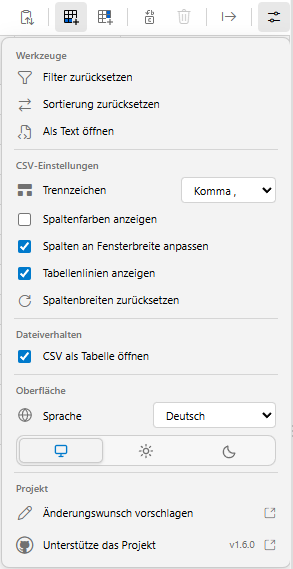
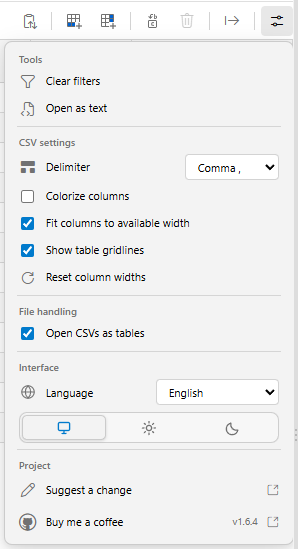
Release 1.6.5 with precise header sorting and supplied screenshots

diff --git a/media/editor.css b/media/editor.css
@@ -40,7 +40,7 @@ svg { display: block; width: 16px; height: 16px; fill: none; stroke: currentColo
 .tool-group { display: flex; align-items: center; gap: 2px; }
 .tool-button { position: relative; display: inline-grid; flex: none; place-items: center; width: 32px; height: 30px; padding: 0; border: 0; border-radius: 4px; outline: 0; background: transparent; color: var(--muted); }
 .tool-button:hover:not(:disabled), .tool-button[aria-expanded="true"] { background: var(--hover); color: var(--foreground); }
-.tool-button:focus-visible, .header-button:focus-visible, .sort-button:focus-visible, .menu-action:focus-visible, .dialog-button:focus-visible { outline: 2px solid var(--focus); outline-offset: -2px; }
+.tool-button:focus-visible, .header-button:focus-visible, .sort-direction:focus-visible, .menu-action:focus-visible, .dialog-button:focus-visible { outline: 2px solid var(--focus); outline-offset: -2px; }
 .tool-button > .codicon { font-size: 16px; }
 .table-add-icon { width: 16px; height: 16px; stroke-width: 1; stroke-linecap: square; stroke-linejoin: miter; }
 .replace-values-icon { width: 16px; height: 16px; fill: currentColor; stroke: none; stroke-width: 0; }
@@ -63,25 +63,30 @@ thead th:first-child { position: sticky; left: 0; z-index: 4; }
 .row-number-head input, .row-number-cell input { width: 12px; height: 12px; margin: 0; accent-color: var(--accent); }
 .row-number-head input { position: absolute; top: 50%; left: 50%; opacity: .7; transform: translate(-50%, -50%); }
 .heading-content { position: relative; width: 100%; min-width: 0; height: 42px; }
-.sort-button { position: absolute; inset: 0; display: flex; align-items: center; justify-content: flex-start; width: 100%; min-width: 0; overflow: hidden; padding: 0 var(--heading-right-padding, 26px) 0 6px; border: 0; border-radius: 3px; outline: 0; background: transparent; color: inherit; font-size: 11px; font-weight: 600; line-height: 1; text-align: left; white-space: nowrap; }
-.sort-button:hover, .sort-button.is-sorted { color: var(--foreground); }
+.column-title { position: absolute; inset: 0; display: flex; align-items: center; justify-content: flex-start; width: 100%; min-width: 0; overflow: hidden; padding: 0 var(--heading-right-padding, 26px) 0 6px; border: 0; border-radius: 3px; outline: 0; background: transparent; color: inherit; font-size: 11px; font-weight: 600; line-height: 16px; text-align: left; white-space: nowrap; }
+.column-title:hover, .column-title.is-sorted { color: var(--foreground); }
 .column-move-handle { position: absolute; top: 2px; right: 6px; z-index: 2; display: grid; place-items: center; width: 18px; height: 18px; padding: 0; border: 0; border-radius: 3px; background: transparent; color: var(--muted); cursor: grab; visibility: hidden; }
 .column-move-handle > .codicon { font-size: 12px; }
 th[data-column]:hover .column-move-handle, th[data-column]:focus-within .column-move-handle { visibility: visible; }
 .column-move-handle:hover, .column-move-handle:focus-visible { color: var(--accent); background: var(--hover); }
 .column-move-handle:active { cursor: grabbing; }
 thead th.is-column-drop-target { outline: 2px solid var(--accent); outline-offset: -2px; }
-.sort-button > span:first-child { display: block; min-width: 0; overflow: hidden; text-overflow: ellipsis; white-space: nowrap; }
-.sort-indicators { position: absolute; top: 1px; bottom: 1px; left: var(--sort-indicator-left, 50%); width: 18px; visibility: hidden; pointer-events: none; transform: translateX(-50%); }
-.sort-direction { position: absolute; left: 0; display: grid; width: 18px; height: 11px; place-items: center; padding: 0; border: 0; background: transparent; color: var(--muted); pointer-events: auto; }
-.sort-direction[data-sort-direction="1"] { top: 0; }
-.sort-direction[data-sort-direction="-1"] { bottom: 0; }
+.column-title > span:first-child { display: block; min-width: 0; overflow: hidden; text-overflow: ellipsis; white-space: nowrap; }
+.sort-indicators { position: absolute; top: 0; bottom: 0; left: var(--sort-indicator-left, 50%); width: 32px; opacity: 0; pointer-events: none; transform: translateX(-50%); }
+.sort-direction { position: absolute; left: 0; display: grid; width: 32px; height: 12px; place-items: center; padding: 0; border: 0; background: transparent; color: var(--muted); pointer-events: auto; cursor: pointer; }
+.sort-direction[data-sort-direction="1"] { top: 0; border-radius: 0 0 15px 15px; }
+.sort-direction[data-sort-direction="-1"] { bottom: 0; border-radius: 15px 15px 0 0; }
+.sort-direction:hover, .sort-direction:focus-visible { color: var(--accent); outline-offset: -2px; }
+.sort-direction[data-sort-direction="1"]:is(:hover, :focus-visible) { background: linear-gradient(to bottom, color-mix(in srgb, var(--accent) 20%, transparent), transparent); }
+.sort-direction[data-sort-direction="-1"]:is(:hover, :focus-visible) { background: linear-gradient(to top, color-mix(in srgb, var(--accent) 20%, transparent), transparent); }
 .sort-direction[hidden] { display: none; }
 .sort-direction > .material-arrow-icon { font-family: material-product-icons; font-size: 12px; font-style: normal; line-height: 1; }
+.sort-direction[data-sort-direction="1"] > .material-arrow-icon { transform: translateY(-2px); }
+.sort-direction[data-sort-direction="-1"] > .material-arrow-icon { transform: translateY(2px); }
 .material-arrow-small-down::before { content: "\EA8E"; }
 .material-arrow-small-up::before { content: "\EA90"; }
 .sort-direction[aria-pressed="true"] { color: var(--accent); }
-th[data-column]:hover .sort-indicators, th[data-column]:focus-within .sort-indicators, th[data-column][aria-sort="ascending"] .sort-indicators, th[data-column][aria-sort="descending"] .sort-indicators { visibility: visible; }
+th[data-column]:hover .sort-indicators, th[data-column]:focus-within .sort-indicators, th[data-column][aria-sort="ascending"] .sort-indicators, th[data-column][aria-sort="descending"] .sort-indicators { opacity: 1; }
 .header-button { display: inline-grid; flex: none; place-items: center; width: 21px; height: 22px; padding: 0; border: 0; border-radius: 3px; outline: 0; background: transparent; color: var(--muted); }
 .header-button:hover, .header-button.is-active { color: var(--accent); background: var(--hover); }
 .header-button > .codicon { font-size: 12px; }

diff --git a/media/editor.js b/media/editor.js
@@ -328,7 +328,6 @@ let theme = ['system', 'light', 'dark'].includes(vscode.getState()?.theme) ? vsc
 let lastFilename = '';
 let selectedColumn = -1;
 const selectedColumns = new Set();
-let lastSortClick = { column: -1, time: 0 };
 let sortState = null;
 let visibleRows = [];
 let activeColumn = -1;
@@ -757,12 +756,9 @@ function renderHeader() {
     applyColumnColor(th, column);
 
     const layout = createElement('div', 'heading-content');
-    const sortButton = document.createElement('button');
-    sortButton.type = 'button';
-    sortButton.className = 'sort-button';
-    sortButton.dataset.sort = String(column);
-    sortButton.title = `${t('Sort by')} ${header.trim() || `${t('Column')} ${column + 1}`}`;
-    sortButton.setAttribute('aria-label', sortButton.title);
+    const sortButton = document.createElement('span');
+    sortButton.className = 'column-title';
+    sortButton.title = header.trim() || `${t('Column')} ${column + 1}`;
     if (sortState?.column === column) sortButton.classList.add('is-sorted');
     th.setAttribute('aria-sort', sortState?.column === column
       ? (sortState.direction > 0 ? 'ascending' : 'descending')
@@ -776,7 +772,6 @@ function renderHeader() {
       directionButton.dataset.sort = String(column);
       directionButton.dataset.sortDirection = String(direction);
       const isActiveSortDirection = sortState?.column === column && sortState.direction === direction;
-      directionButton.hidden = isActiveSortDirection;
       const arrowIcon = createElement('span', `material-arrow-icon material-arrow-small-${direction > 0 ? 'up' : 'down'}`);
       arrowIcon.setAttribute('aria-hidden', 'true');
       directionButton.append(arrowIcon);
@@ -825,7 +820,7 @@ function positionHeaderIcons() {
   const viewportRight = viewport.left + elements.tableScroll.clientWidth;
   elements.tableHead.querySelectorAll('th[data-column]').forEach((header) => {
     const layout = header.querySelector('.heading-content');
-    const name = header.querySelector('.sort-button > span:first-child');
+    const name = header.querySelector('.column-title > span:first-child');
     const indicators = header.querySelector('.sort-indicators');
     const filter = header.querySelector('.filter-button');
     const moveHandle = header.querySelector('.column-move-handle');
@@ -848,7 +843,7 @@ function positionHeaderIcons() {
     moveHandle.style.right = 'auto';
     layout.style.setProperty('--heading-right-padding', `${Math.max(26, layout.clientWidth - filterLeft + 4)}px`);
     const width = Math.min(name.scrollWidth, name.clientWidth);
-    indicators.style.setProperty('--sort-indicator-left', `${name.offsetLeft + width / 2}px`);
+    indicators.style.setProperty('--sort-indicator-left', `${Math.max(16, Math.min(layout.clientWidth - 16, name.offsetLeft + width / 2))}px`);
   });
 }
 
@@ -1162,7 +1157,7 @@ function recalculateColumnWidths(columns = null) {
   const probe = document.createElement('table');
   probe.style.cssText = 'position:absolute;visibility:hidden;pointer-events:none;top:0;left:0;';
   const th = probe.createTHead().insertRow().appendChild(document.createElement('th'));
-  const button = createElement('button', 'sort-button');
+  const button = createElement('span', 'column-title');
   th.append(button);
   const td = probe.createTBody().insertRow().insertCell();
   td.className = 'data-cell';
@@ -2055,7 +2050,7 @@ elements.table.addEventListener('click', (event) => {
     return;
   }
 
-  const sortButton = event.target.closest('[data-sort]');
+  const sortButton = event.target.closest('.sort-direction[data-sort-direction]');
   if (sortButton) {
     cellSelection = null;
     selectedRows.clear();
@@ -2067,22 +2062,10 @@ elements.table.addEventListener('click', (event) => {
       renderTable();
       return;
     }
-    const now = performance.now();
-    const isDoubleClick = lastSortClick.column === column && now - lastSortClick.time < 450;
-    lastSortClick = { column, time: isDoubleClick ? 0 : now };
-    if (isDoubleClick) {
-      if (sortState?.column === column) sortState = null;
-      selectedColumns.clear();
-      selectedColumn = -1;
-      renderTable();
-      return;
-    }
     selectedColumns.clear();
     selectedColumn = -1;
     const direction = Number(sortButton.dataset.sortDirection);
-    sortState = Number.isFinite(direction) && direction !== 0
-      ? { column, direction }
-      : (sortState?.column === column ? { column, direction: sortState.direction * -1 } : { column, direction: 1 });
+    sortState = { column, direction };
     renderTable();
     return;
   }
@@ -2159,7 +2142,6 @@ elements.table.addEventListener('dblclick', (event) => {
   }
   const heading = event.target.closest('th[data-column]');
   if (heading) {
-    if (!event.target.closest('[data-move-column]') && sortState?.column === Number(heading.dataset.column)) { sortState = null; renderTable(); }
     return;
   }
   const cell = event.target.closest('[data-row-id][data-column]');

diff --git a/docs/GUIDE.md b/docs/GUIDE.md
@@ -8,7 +8,7 @@ Use **Ctrl+S / Cmd+S** to save and VS Code's normal Undo command to undo edits. 
 
 ## Sort, filter, and find
 
-Click a column name to sort. Hover over a heading to reveal its filter icon and column grip. Filters combine a case-insensitive text search with checked exact values; multiple column filters work together. Other active filters determine the available choices. **Show more values** expands long lists; searching covers the full list.
+Hover over a heading, then click its top arrow to sort ascending or its bottom arrow to sort descending. Only the small arrow areas sort; clicking the title selects the column. The filter icon and column grip appear on the right. Filters combine a case-insensitive text search with checked exact values; multiple column filters work together. Other active filters determine the available choices. **Show more values** expands long lists; searching covers the full list.
 
 Filter changes apply immediately. Escape closes the popup and keeps your filter. Use **Clear filter**, or clear all filters and sorting from settings. **Ctrl+F / Cmd+F** uses VS Code's Find across table rows.
 

diff --git a/docs/DEVELOPMENT.md b/docs/DEVELOPMENT.md
@@ -31,6 +31,8 @@ PDF 1.7 export uses bundled pdf-lib/fontkit and fonts in `media/pdf`, with upstr
 
 ## Screenshots and documentation
 
+Supplied screenshots are retained in `media/screenshots/light.png` and `dark.png`. Run `node scripts/frame-screenshots.cjs`, optionally passing a Playwright module path, to apply the README frame and shadow without recreating the screenshots.
+
 Run `node scripts/capture-screenshots.cjs`, optionally passing a Playwright module path. Captures use the actual editor with a small generated table, bundled fonts and icons, natural widths, and closed menus. Keep both PNGs in `media` and push them before distributing a package that references them.
 
 The editable icon is `media/csv-simple-editor-favicon.svg`; the Marketplace icon is `media/extension-icon.png`. Keep the README focused on installing and using the editor. Detailed usage belongs in the [user guide](GUIDE.md), and technical notes in this file.

diff --git a/README.md b/README.md
@@ -28,7 +28,7 @@
 ## Get started
 
 1. Install **CSV Simple Editor** and open a `.csv` or `.tsv` file. The first row supplies the column names.
-2. Double-click a cell to edit. Click a column name to sort; hover over its heading to reveal the filter and column grip.
+2. Double-click a cell to edit. Hover over a heading and use its top or bottom arrow to sort; the filter and column grip appear on the right.
 3. Save with **Ctrl+S** / **Cmd+S**. Use the toolbar to paste data, replace text, export, or change settings.
 
 To choose the editor manually, right-click the file tab → **Reopen Editor With…** → **CSV Simple Editor**. Use **Open as Text** in the editor title bar to return to the source.

diff --git a/CHANGELOG.md b/CHANGELOG.md
@@ -1,5 +1,12 @@
 # Changelog
 
+## 1.6.5
+
+- Preserve descenders in column titles with a taller text line box.
+- Restrict header sorting to the top and bottom arrow areas at the cell borders; title clicks select columns and no longer change sorting.
+- Add subtle rounded hover gradients fading inward from each header border, with keyboard focus support.
+- Use the supplied replacement screenshots, retaining originals and adding the README's rounded frame and soft shadow.
+
 ## 1.6.4
 
 - Fix extension-detail screenshots by using public HTTPS URLs instead of data URLs removed by VS Code's Markdown sanitizer.
